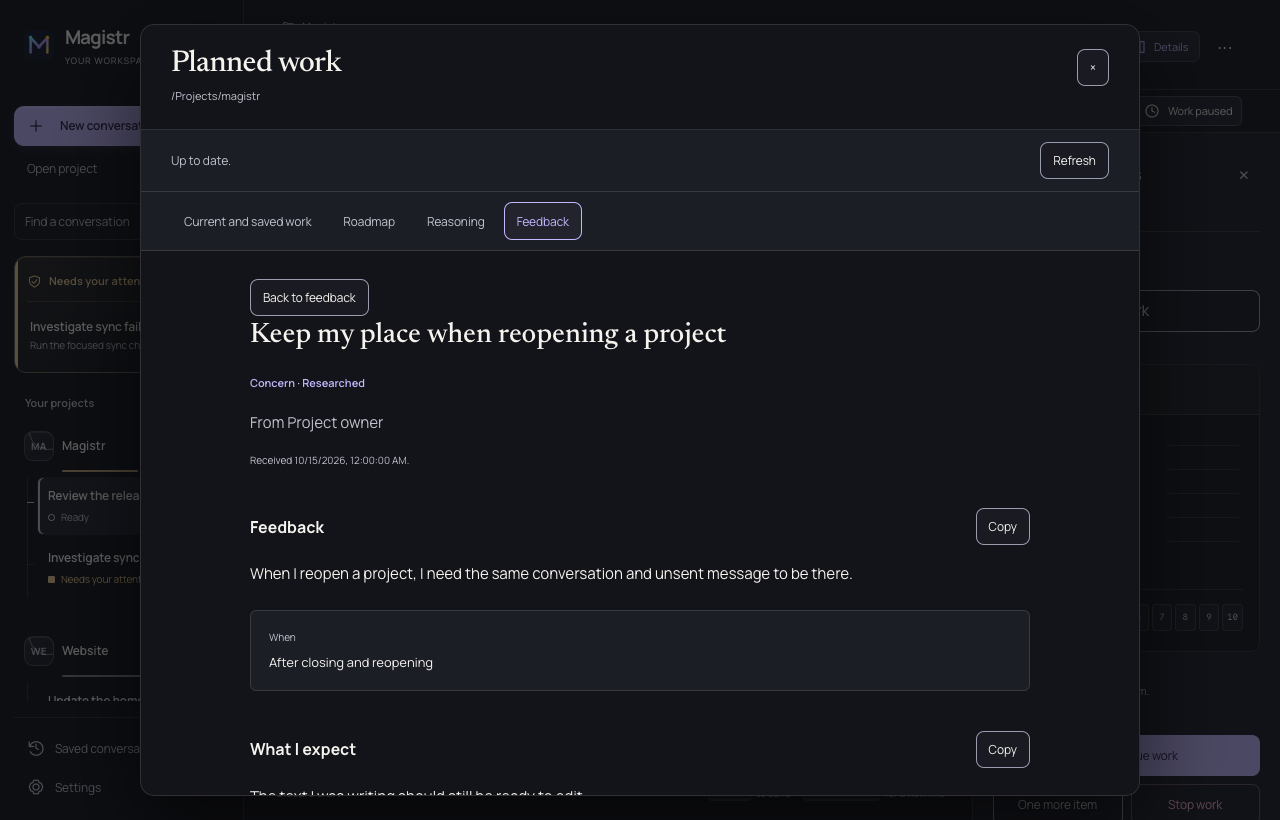
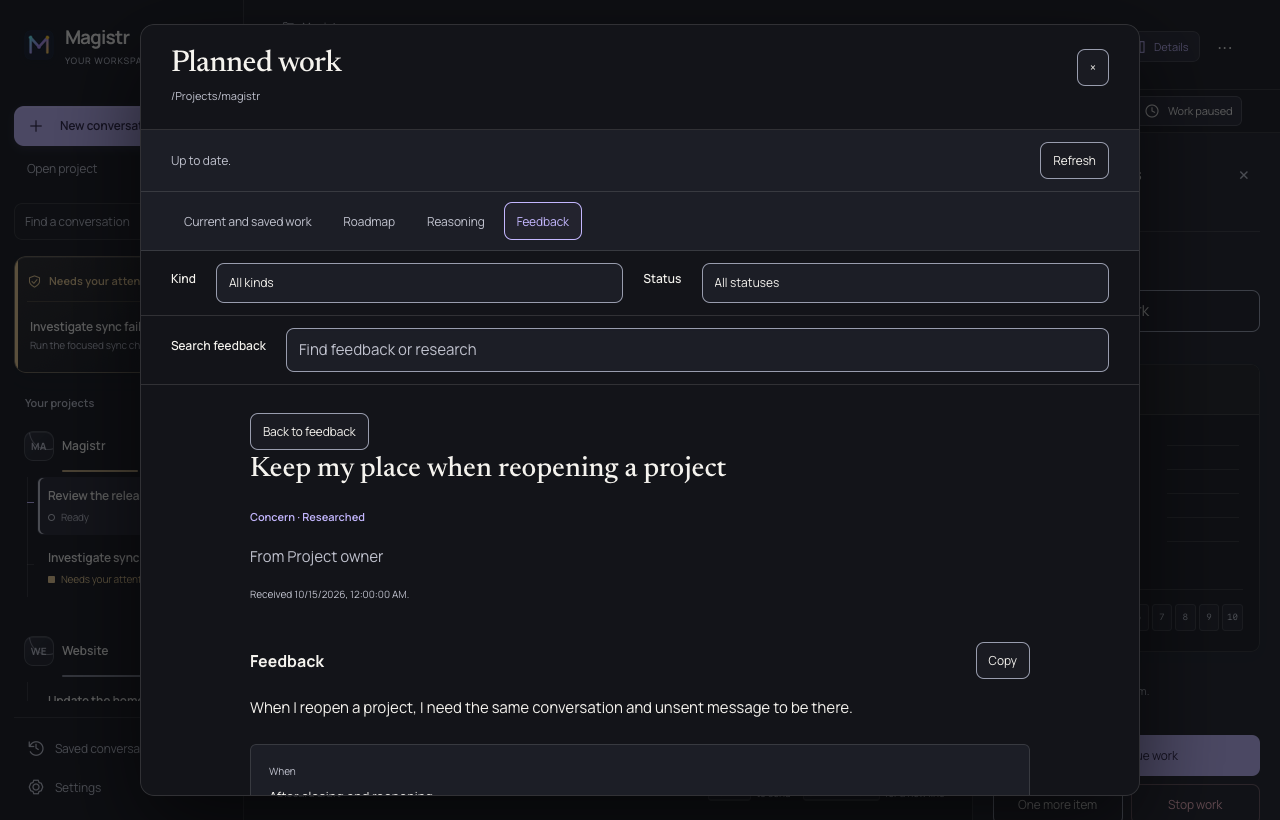
feat(desktop): search and filter complete feedback records

diff --git a/crates/magistr-desktop/ui/index.html b/crates/magistr-desktop/ui/index.html
@@ -130,6 +130,8 @@
   <nav id="work-browser-tabs" class="work-browser-tabs" role="tablist" aria-label="Work view"><button id="work-tab-work" role="tab" aria-selected="true" aria-controls="work-browser-content" data-work-view="work">Current and saved work</button><button id="work-tab-roadmap" role="tab" aria-selected="false" aria-controls="work-browser-content" tabindex="-1" data-work-view="roadmap">Roadmap</button><button id="work-tab-reasoning" role="tab" aria-selected="false" aria-controls="work-browser-content" tabindex="-1" data-work-view="reasoning">Reasoning</button><button id="work-tab-feedback" role="tab" aria-selected="false" aria-controls="work-browser-content" tabindex="-1" data-work-view="feedback">Feedback</button></nav>
   <div id="work-reasoning-selection" class="work-run-selection" hidden><label for="work-browser-reasoning">Reasoning to inspect</label><select id="work-browser-reasoning"></select><label for="work-browser-branch">Investigation</label><select id="work-browser-branch"></select></div>
   <div id="work-reasoning-search" class="work-run-selection" hidden><label for="work-browser-reasoning-search">Search all reasoning</label><input id="work-browser-reasoning-search" type="search" autocomplete="off" placeholder="Find a recorded decision"></div>
+  <div id="work-feedback-filters" class="work-run-selection" hidden><label for="work-browser-feedback-kind">Kind</label><select id="work-browser-feedback-kind"><option value="all">All kinds</option><option value="question">Questions</option><option value="idea">Ideas</option><option value="concern">Concerns</option><option value="bug">Bugs</option><option value="feedback">Feedback</option></select><label for="work-browser-feedback-status">Status</label><select id="work-browser-feedback-status"><option value="all">All statuses</option><option value="new">New</option><option value="triaged">Reviewed</option><option value="researched">Researched</option><option value="surfaced">Raised for review</option><option value="promoted">Added to roadmap</option><option value="dismissed">Dismissed</option></select></div>
+  <div id="work-feedback-search" class="work-run-selection" hidden><label for="work-browser-feedback-search">Search feedback</label><input id="work-browser-feedback-search" type="search" autocomplete="off" placeholder="Find feedback or research"></div>
   <div id="work-run-selection" class="work-run-selection"><label for="work-browser-runs">Work to inspect</label><select id="work-browser-runs"></select></div>
   <div id="work-track-selection" class="work-run-selection" hidden><label for="work-browser-track">Track</label><select id="work-browser-track"></select><label for="work-browser-roadmap-state">Items</label><select id="work-browser-roadmap-state"><option value="open">Open work</option><option value="closed">Completed and retired</option></select></div>
   <div id="work-roadmap-search" class="work-run-selection" hidden><label for="work-browser-search">Search all roadmap</label><input id="work-browser-search" type="search" placeholder="Find work in any track" autocomplete="off"></div>

diff --git a/docs/reference/cockpit-modules.md b/docs/reference/cockpit-modules.md
@@ -37,6 +37,7 @@ desktop workspace. Companion Rust tests live beside their owners.
 - `crates/magistr-desktop/ui/work_reasoning_links.mjs` — direct references, revisions and project-wide identity resolution.
 - `crates/magistr-desktop/ui/work_reasoning_branch.mjs` — session-scoped investigations and recorded lifecycle.
 - `crates/magistr-desktop/ui/work_prose.mjs` — complete literal authored prose and exact copying.
+- `crates/magistr-desktop/ui/work_feedback_search.mjs` — complete feedback search and saved kind/status filters.
 - `crates/magistr-desktop/ui/work_feedback_research.mjs` — append-only research notes, reported confidence and source references.
 - `crates/magistr-desktop/ui/work_feedback.mjs` — complete feedback browsing and stable record details.
 - `crates/magistr-desktop/ui/work_reasoning.mjs` — complete reasoning sessions, step selection and pages.
